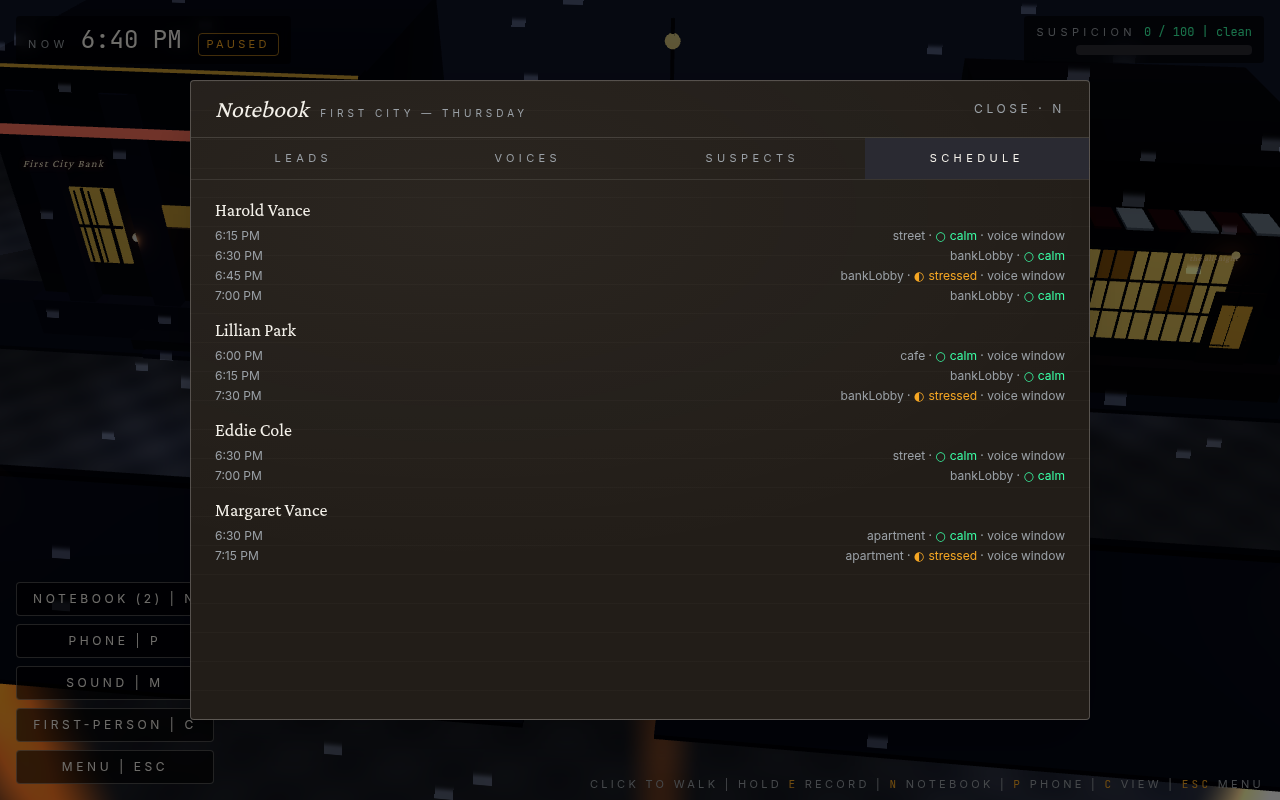
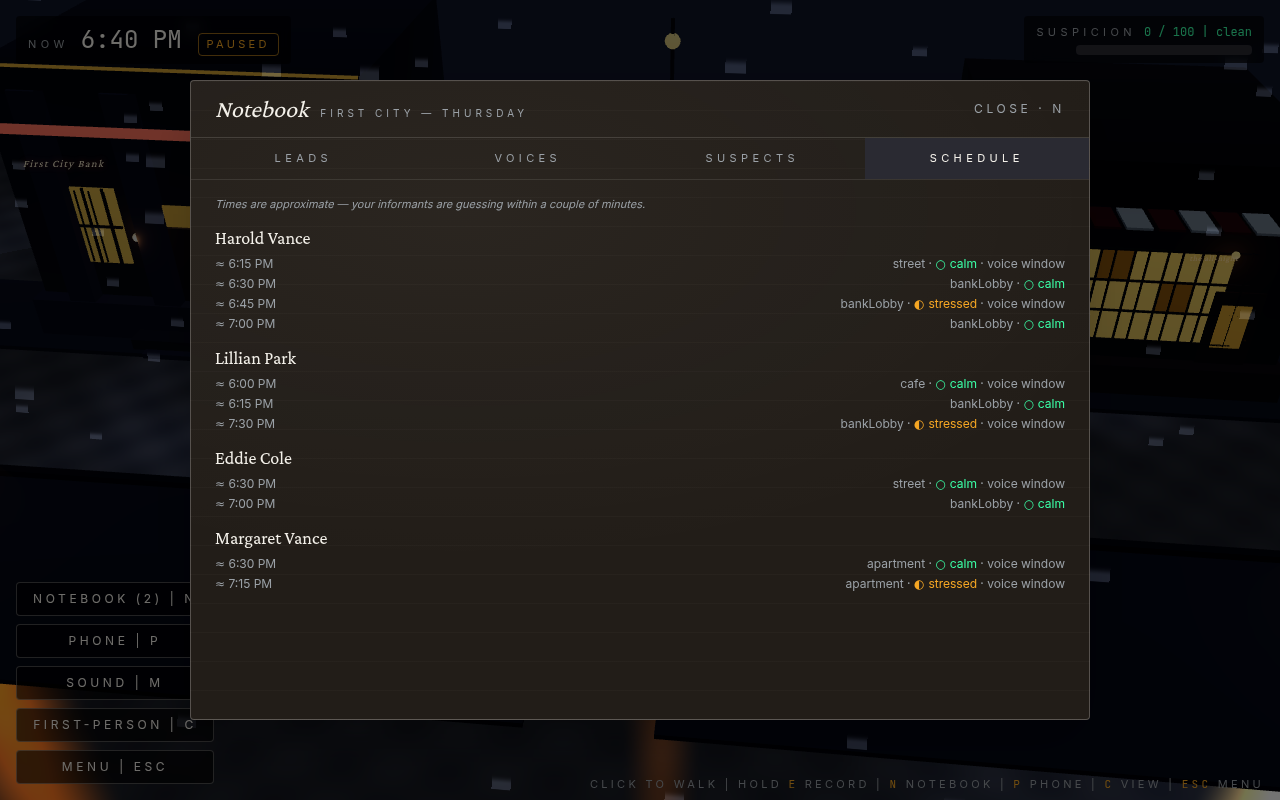
QA pass: bug fixes + accessibility captions + replay polish
Six-tester sweep flagged: 2 critical bugs, 1 a11y blocker, 4 polish gaps.

QA / bugs (HIGH):
- Recording awareness was double-busting on +25 heat (sometimes 4-5x).
  Fixed by setting awareness to 0 immediately on bust.
- Awareness was filling while modals were open — silent bust during
  notebook reading. Now skipped while paused.

QA / achievement gates (MED):
- Voice Collector gated on won.
- Cold Call now also excludes back-exit unlock.
- Self-targeted calls (e.g. Eddie -> Eddie) cost 6 heat now.

Accessibility (BLOCKER cleared):
- New DialogueCaptions component shows current NPC scripted line in
  aria-live region. Deaf players can read the vault-code clue.

Replayability:
- Notebook Schedule shows '~ 6:15 PM' ranges instead of pinpoint times,
  matching the +/-90s jitter.

Flow:
- Voice-auth pass delay 1500ms -> 700ms.

Narrative:
- Loss flavor rewritten with alarm vs time-out outcomes.
- New 'Old habit' lead pays off the mute-protagonist premise.

E2E 38/38.

https://claude.ai/code/session_01FSvaywtgfg4DiBimCB83Xs

diff --git a/src/components/game/DialogueCaptions.tsx b/src/components/game/DialogueCaptions.tsx
@@ -1,0 +1,112 @@
+"use client";
+
+import { useEffect, useState } from "react";
+import { useGame } from "@/game/store";
+import { NPC_PROFILES } from "@/config/voices";
+import bankManagerScripts from "@/config/scripts/bankManager.json";
+import secretaryScripts from "@/config/scripts/secretary.json";
+import bankGuardScripts from "@/config/scripts/bankGuard.json";
+import wifeScripts from "@/config/scripts/wife.json";
+import type { NpcId } from "@/game/types";
+
+interface ScriptLine {
+  text: string;
+  pause: number;
+}
+interface ScriptMoment {
+  id: string;
+  emotion: string;
+  lines: ScriptLine[];
+}
+interface ScriptFile {
+  npc: NpcId;
+  moments: ScriptMoment[];
+}
+
+const SCRIPT_BY_MOMENT = new Map<string, { npcId: NpcId; lines: ScriptLine[] }>();
+for (const file of [bankManagerScripts, secretaryScripts, bankGuardScripts, wifeScripts] as ScriptFile[]) {
+  for (const m of file.moments) {
+    SCRIPT_BY_MOMENT.set(m.id, { npcId: file.npc, lines: m.lines });
+  }
+}
+
+/** Caption track for currently-speaking NPC dialogue. Reads `npc.currentMomentId`,
+ *  pages through the script lines respecting their `pause` rhythm, and renders
+ *  the active line in an aria-live region near the bottom of the screen.
+ *  Critical for hearing-impaired players — the manager's planted vault-code
+ *  clue is otherwise audio-only. */
+export default function DialogueCaptions() {
+  const npcs = useGame((s) => s.npcs);
+  const audioMuted = useGame((s) => s.audioMuted);
+  const [active, setActive] = useState<{ npcId: NpcId; text: string } | null>(null);
+
+  useEffect(() => {
+    // Find the FIRST NPC speaking in the player's current scene.
+    const player = useGame.getState().player;
+    let speaker: { npcId: NpcId; momentId: string } | null = null;
+    for (const id of Object.keys(npcs) as NpcId[]) {
+      const npc = npcs[id];
+      if (!npc.isSpeaking || !npc.currentMomentId) continue;
+      if (npc.currentLocation !== player.currentLocation) continue;
+      speaker = { npcId: id, momentId: npc.currentMomentId };
+      break;
+    }
+
+    if (!speaker) {
+      setActive(null);
+      return;
+    }
+    const script = SCRIPT_BY_MOMENT.get(speaker.momentId);
+    if (!script || script.lines.length === 0) {
+      setActive(null);
+      return;
+    }
+
+    // Walk through the lines, holding each visible for ~1.5s + pause + (line.length * 50ms)
+    let idx = 0;
+    let cancelled = false;
+    const showLine = () => {
+      if (cancelled) return;
+      const line = script.lines[idx];
+      if (!line) {
+        setActive(null);
+        return;
+      }
+      setActive({ npcId: script.npcId, text: line.text });
+      const ms = Math.max(1500, line.text.length * 50) + Math.max(150, line.pause * 1000);
+      const t = setTimeout(() => {
+        idx += 1;
+        showLine();
+      }, ms);
+      return () => clearTimeout(t);
+    };
+    showLine();
+    return () => {
+      cancelled = true;
+      setActive(null);
+    };
+  }, [npcs]);
+
+  if (!active) return null;
+  const profile = NPC_PROFILES[active.npcId];
+
+  return (
+    <div
+      className="pointer-events-none absolute bottom-[18%] left-1/2 z-15 max-w-[min(720px,90vw)] -translate-x-1/2 rounded bg-black/75 px-4 py-2 text-center backdrop-blur"
+      role="status"
+      aria-live="polite"
+    >
+      <p className="text-[9px] uppercase tracking-[0.4em] text-noir-amber">
+        {profile.displayName}
+      </p>
+      <p className="mt-0.5 font-serif text-base italic text-noir-paper">
+        &ldquo;{active.text}&rdquo;
+      </p>
+      {audioMuted && (
+        <p className="mt-1 text-[9px] uppercase tracking-[0.3em] text-noir-fog">
+          (audio muted)
+        </p>
+      )}
+    </div>
+  );
+}

diff --git a/src/game/tick.ts b/src/game/tick.ts
@@ -71,7 +71,9 @@ export function useGameTick(): void {
 
       // Recording awareness — fills if any non-target NPC is in the same scene
       // and within ~6 units of the player while recording. Drains otherwise.
-      if (next.player.isRecording) {
+      // Skip entirely while a modal is open (otherwise standing still reading
+      // the notebook can bust the recording silently).
+      if (next.player.isRecording && !paused) {
         const targetId = next.player.recordingTargetNpc;
         const playerLoc = next.player.currentLocation;
         let nearestOther = Infinity;
@@ -94,11 +96,12 @@ export function useGameTick(): void {
         const newAwareness = Math.max(0, Math.min(1, next.player.recordingAwareness + delta));
         next.setRecordingAwareness(newAwareness);
         if (newAwareness >= 0.999) {
-          // Bust — heat spike + cancel the recording (which the recordingManager
-          // will catch). The card is still added because the cone was technically
-          // captured, but you carry the heat.
+          // Bust — heat spike, increment counter, cancel recording. Reset
+          // awareness to 0 immediately so the next tick can't double-fire
+          // before endRecording() resolves async.
           next.raiseSuspicion(25, "someone watched you record");
           useGame.setState((s) => ({ recordingsBust: s.recordingsBust + 1 }));
+          next.setRecordingAwareness(0);
           endRecording().catch(() => {});
         }
       }

diff --git a/src/components/game/EndCard.tsx b/src/components/game/EndCard.tsx
@@ -5,6 +5,16 @@ import { clockLabel } from "@/game/timeFormat";
 import { evaluateLossConditions } from "@/game/winLose";
 import { evaluateAchievements } from "@/game/achievements";
 
+function lossText(reason: string): string {
+  if (/alarm/i.test(reason)) {
+    return "The bell. Boots in the lobby. Hands on your shoulders. You opened your mouth — old habit — and nothing came out.";
+  }
+  if (/9 PM|train|time/i.test(reason)) {
+    return "Nine o'clock. The whistle. The platform empty. You watch the briefcase ride away in someone else's hand.";
+  }
+  return `${reason}. The city kept its voices, this time.`;
+}
+
 function pathLabel(): string {
   const s = useGame.getState();
   if (s.bankBackExitUnlocked) return "Beat-cop bluff";
@@ -37,7 +47,7 @@ export default function EndCard() {
         <p className="mx-auto mt-3 max-w-lg text-noir-fog">
           {won
             ? "The train groans out of First City with the briefcase under your coat. Nobody remembers your voice, because you never used it."
-            : `${lossReason}. The city kept its voices, this time.`}
+            : lossText(lossReason)}
         </p>
         <div className="mx-auto mt-6 grid max-w-xl grid-cols-3 gap-2 text-center">
           <div className="rounded border border-noir-paper/10 bg-white/5 px-3 py-2">

diff --git a/src/game/achievements.ts b/src/game/achievements.ts
@@ -32,9 +32,10 @@ export function evaluateAchievements(state: GameState): Achievement[] {
     });
   }
 
-  // Voice collector — recorded all four NPCs at least once
+  // Voice collector — recorded all four NPCs at least once. Gated on win
+  // so the chip is a reward, not consolation.
   const recordedNpcs = new Set(state.voiceInventory.map((c) => c.npcId));
-  if (ALL_NPCS.every((id) => recordedNpcs.has(id))) {
+  if (won && ALL_NPCS.every((id) => recordedNpcs.has(id))) {
     out.push({
       id: "collector",
       label: "Voice Collector",
@@ -42,12 +43,13 @@ export function evaluateAchievements(state: GameState): Achievement[] {
     });
   }
 
-  // Cold call — won without making a single phone call
-  // (best heuristic available: no NPC branches were flipped from default)
+  // Cold call — won without making a single phone call.
+  // Excludes the back-exit unlock too (that's also a phone call).
   if (won) {
     const noBranchFlips =
       state.npcs.bankManager.branch === "default" &&
-      state.npcs.secretary.branch === "default";
+      state.npcs.secretary.branch === "default" &&
+      !state.bankBackExitUnlocked;
     if (noBranchFlips) {
       out.push({
         id: "cold-call",

diff --git a/src/components/game/Notebook.tsx b/src/components/game/Notebook.tsx
@@ -179,6 +179,10 @@ export default function Notebook() {
 
           {tab === "schedule" && (
             <div className="space-y-3">
+              <p className="text-[11px] italic text-noir-fog">
+                Times are approximate — your informants are guessing within a
+                couple of minutes.
+              </p>
               {(Object.keys(NPC_SCHEDULES) as NpcId[]).map((id) => (
                 <div key={id}>
                   <h3 className="font-serif text-lg">{NPC_PROFILES[id].displayName}</h3>
@@ -187,7 +191,7 @@ export default function Notebook() {
                       .filter((m) => m.branch === "default")
                       .map((m) => (
                         <li key={m.id} className="flex justify-between">
-                          <span>{clockLabel(m.startSeconds)}</span>
+                          <span>≈ {clockLabel(m.startSeconds)}</span>
                           <span>
                             {m.location} ·{" "}
                             <span className={emotionColorClass(m.emotion)}>

diff --git a/src/components/game/PhoneUI.tsx b/src/components/game/PhoneUI.tsx
@@ -119,11 +119,14 @@ export default function PhoneUI() {
       }
 
       const branchFired = applyCallEffects(target, card.npcId, message);
-      // A call that doesn't move anything still costs heat — the line was tied up
-      // for nothing and the receiving NPC remembers a strange voice asking for something
-      // odd.
-      if (!branchFired && data.raisedSuspicion === 0 && card.npcId !== target) {
-        raiseSuspicion(4, `awkward call to ${NPC_PROFILES[target].displayName}`);
+      // Any non-firing call costs heat — even calling someone in their own
+      // voice is suspicious enough that the receiver remembers it later.
+      if (!branchFired && data.raisedSuspicion === 0) {
+        const reason =
+          card.npcId === target
+            ? `${NPC_PROFILES[target].displayName} heard their own voice`
+            : `awkward call to ${NPC_PROFILES[target].displayName}`;
+        raiseSuspicion(card.npcId === target ? 6 : 4, reason);
       }
 
       if (data.hangUp) {

diff --git a/src/game/leads.ts b/src/game/leads.ts
@@ -132,5 +132,20 @@ export function buildLeads(state: GameState): Lead[] {
     });
   }
 
+  // Mute-protagonist beat — fires once after the player's first phone call
+  // (or any branch flip). Reminds them the silence is the whole game.
+  const flippedAny =
+    state.npcs.bankManager.branch !== "default" ||
+    state.npcs.secretary.branch !== "default" ||
+    state.bankBackExitUnlocked;
+  if (flippedAny) {
+    leads.push({
+      id: "old-habit",
+      title: "Old habit",
+      body: "You almost answered the receiver. Old habit. Nothing came. You hung up before the dial tone.",
+      urgency: "note",
+    });
+  }
+
   return leads;
 }

diff --git a/src/components/game/GameRoot.tsx b/src/components/game/GameRoot.tsx
@@ -15,6 +15,7 @@ import ToastStack from "./ToastStack";
 import TitleScreen from "./TitleScreen";
 import SceneTitle from "./SceneTitle";
 import PauseMenu from "./PauseMenu";
+import DialogueCaptions from "./DialogueCaptions";
 
 export default function GameRoot() {
   const phase = useGame((s) => s.phase);
@@ -45,6 +46,7 @@ export default function GameRoot() {
         <>
           <GameCanvas />
           <SceneTitle />
+          <DialogueCaptions />
           <HUD />
           <ToastStack />
           {notebookOpen && <Notebook />}

diff --git a/src/components/game/VoiceAuthDialog.tsx b/src/components/game/VoiceAuthDialog.tsx
@@ -80,7 +80,7 @@ export default function VoiceAuthDialog() {
           if (auth.device === "bankFront") openBankFront(true);
           if (auth.device === "bankHallway") openHallway(true);
           setActiveAuth(null);
-        }, 1500);
+        }, 700);
       } else {
         raiseSuspicion(20, "failed voice auth");
         useGame.setState((s) => ({ failedAuthCount: s.failedAuthCount + 1 }));
